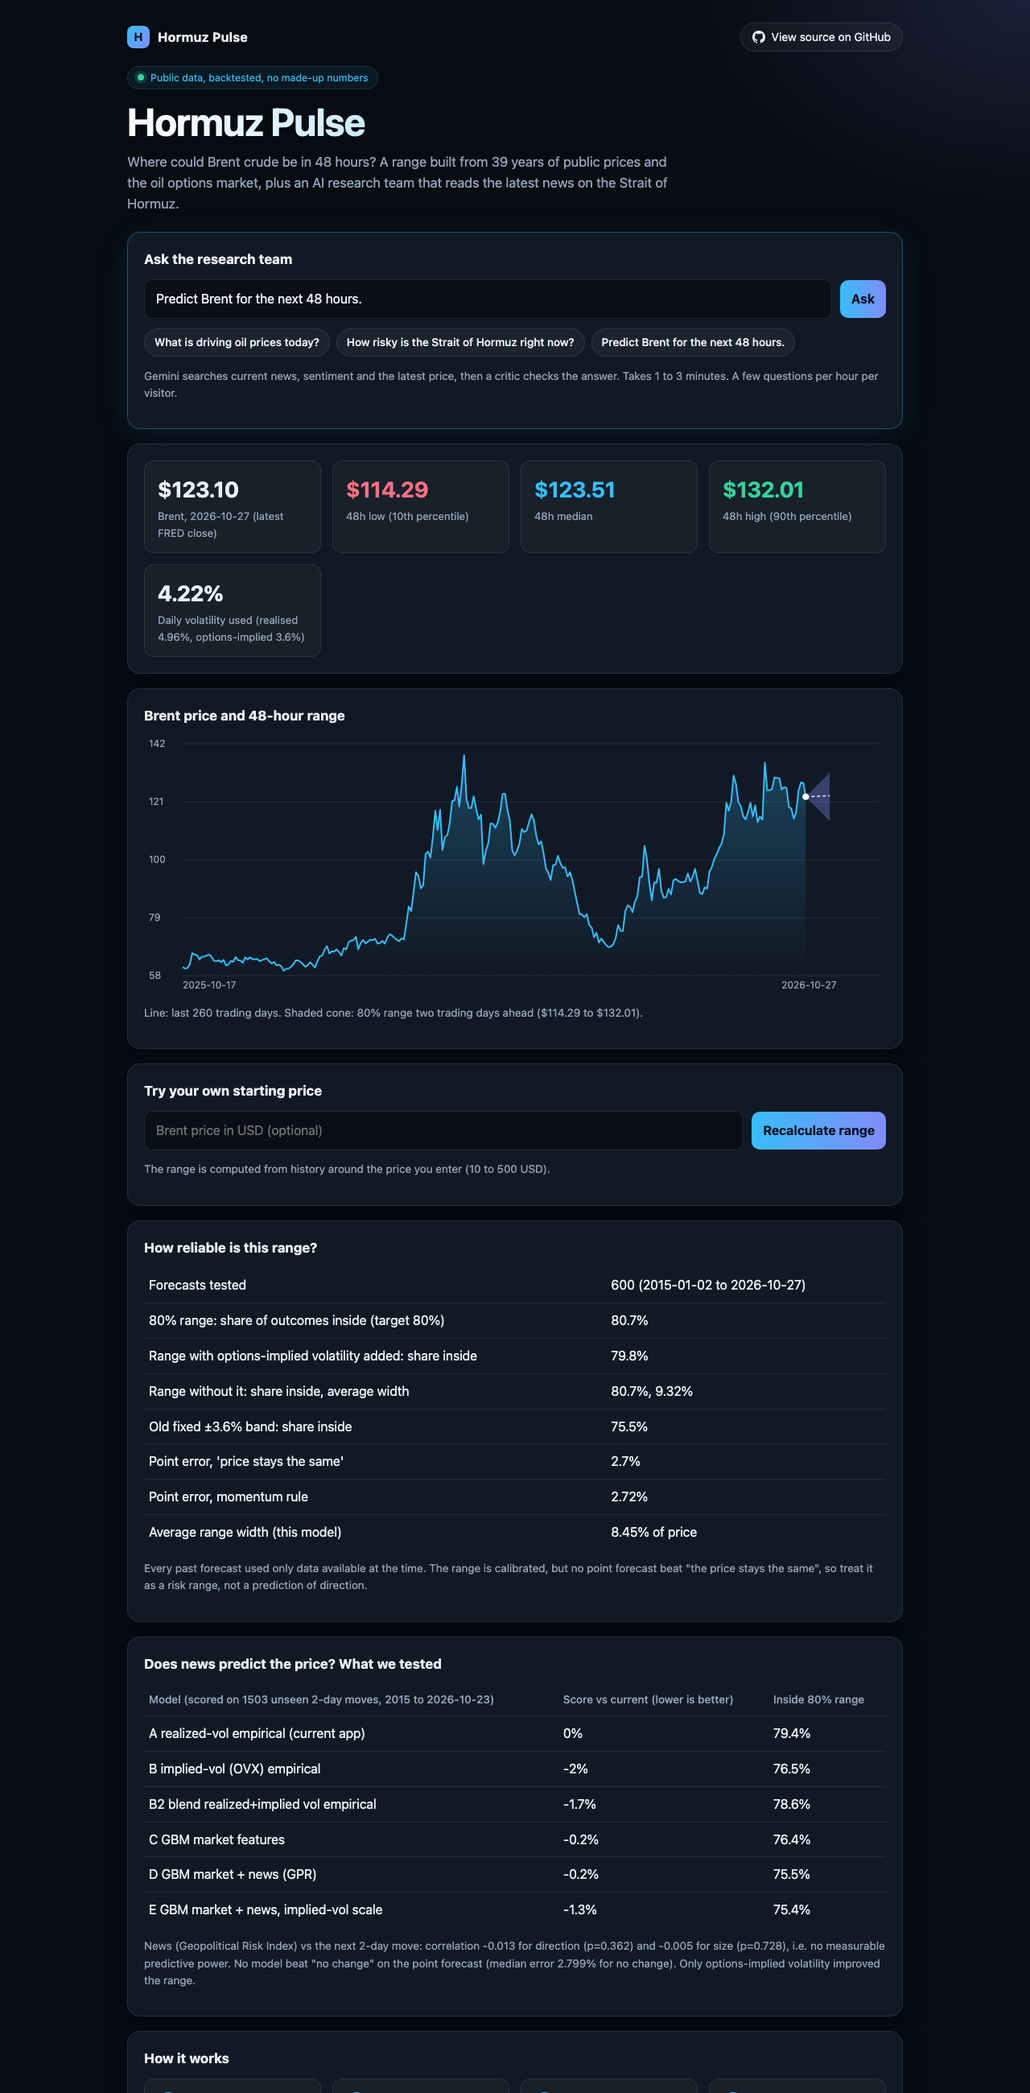
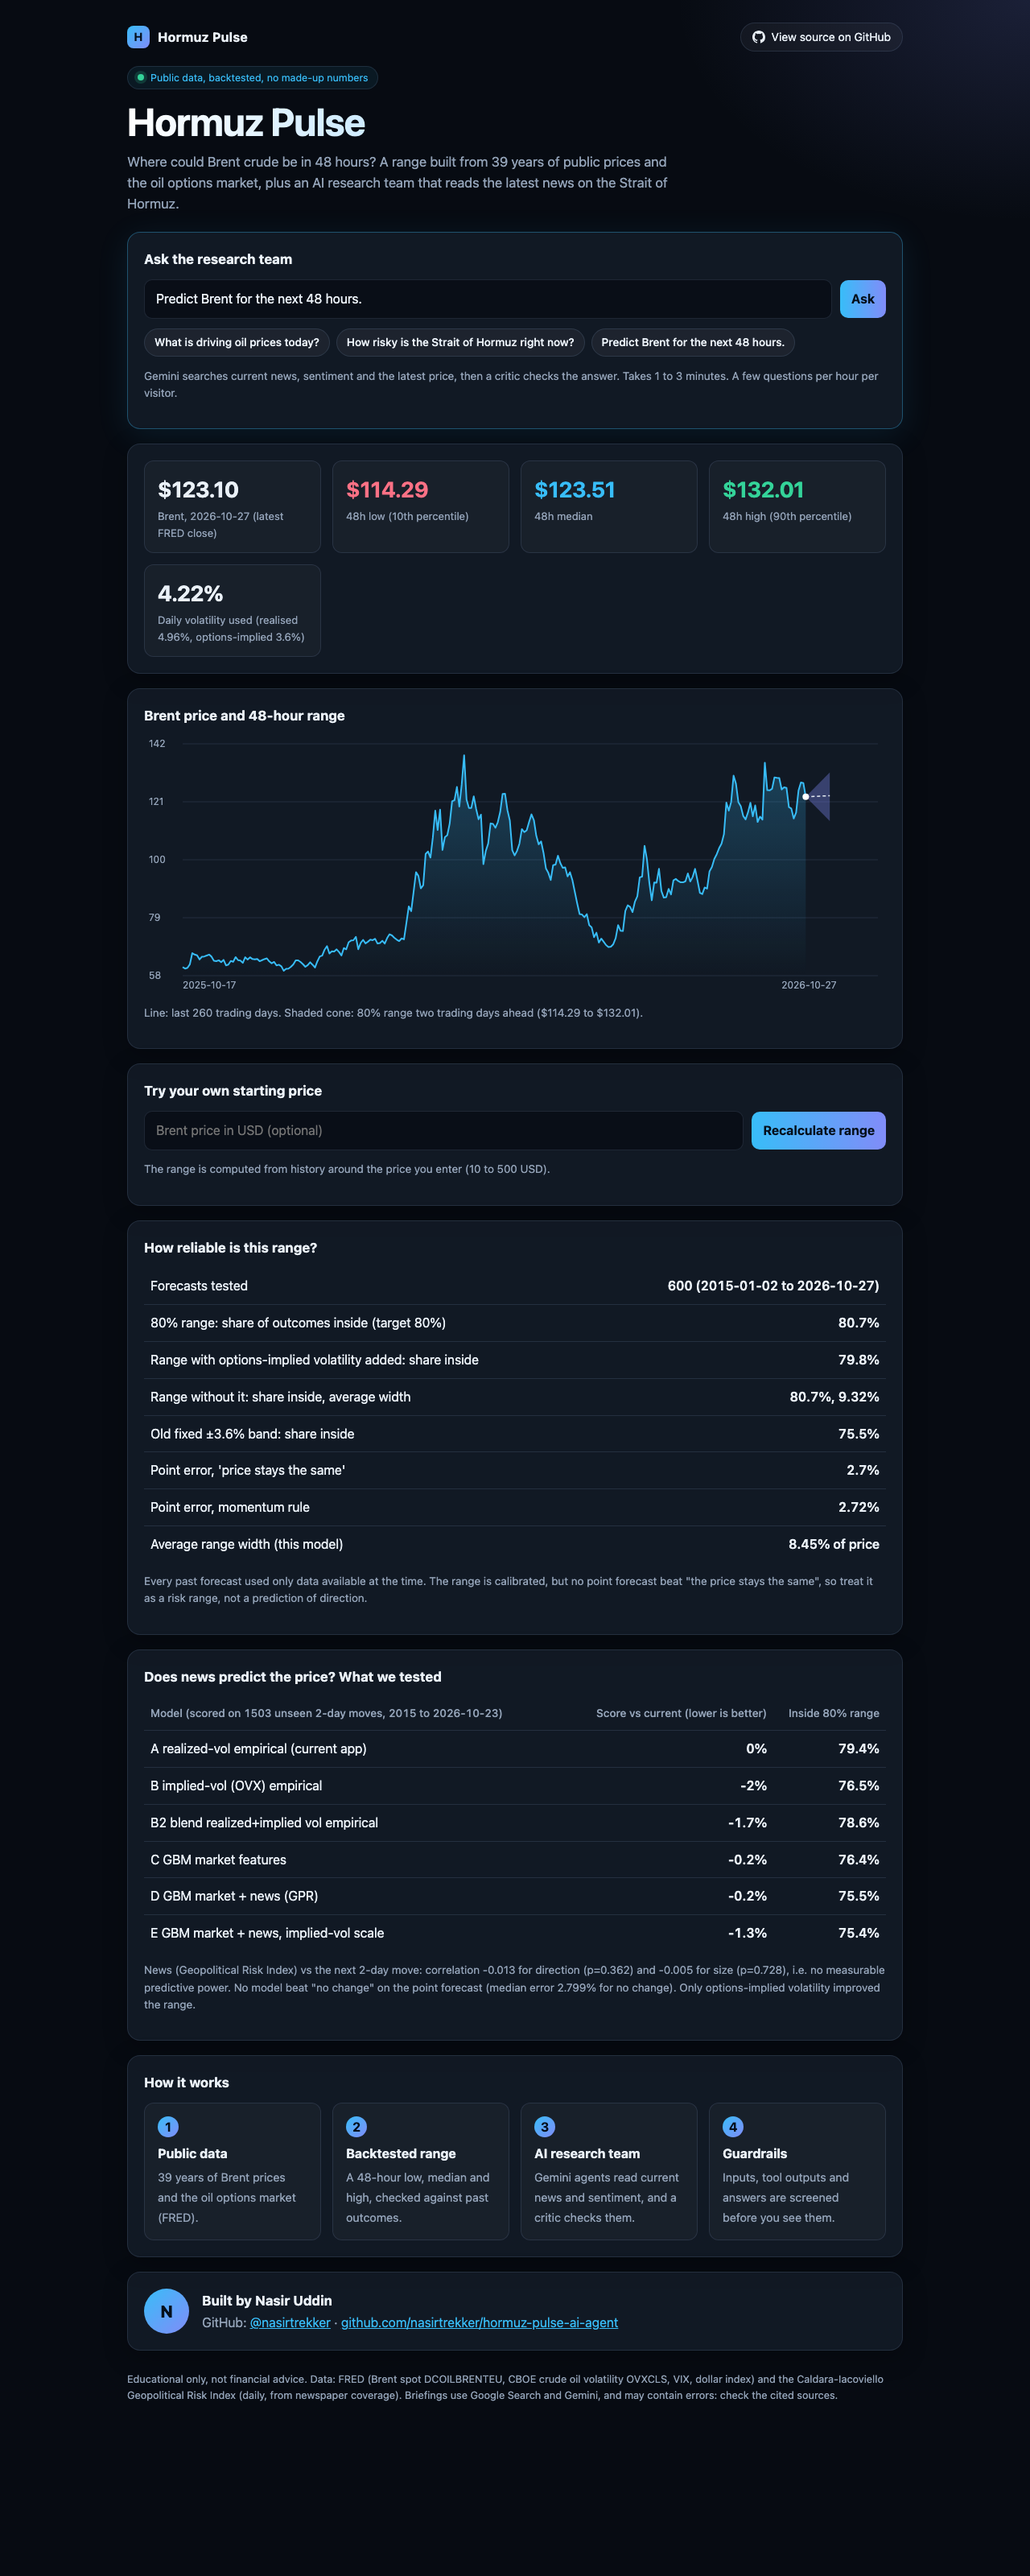
Fix dashboard table layout and make tables scroll on small screens

diff --git a/app/static/index.html b/app/static/index.html
@@ -32,7 +32,13 @@
   button:disabled { opacity:.55; cursor:progress; }
   .chips { display:flex; gap:8px; flex-wrap:wrap; margin:12px 0 0; }
   .chip { background:rgba(255,255,255,.05); color:var(--text); border:1px solid var(--line); font-weight:500; padding:6px 12px; border-radius:999px; font-size:.85rem; }
-  table { width:100%; border-collapse:collapse; } td,th { text-align:left; padding:9px 6px; border-bottom:1px solid var(--line); }
+  .scroll { overflow-x:auto; -webkit-overflow-scrolling:touch; }
+  table { width:100%; border-collapse:collapse; min-width:420px; font-variant-numeric:tabular-nums; }
+  td,th { text-align:left; padding:10px 8px; border-bottom:1px solid var(--line); vertical-align:top; }
+  td:first-child, th:first-child { width:58%; }
+  td:not(:first-child), th:not(:first-child) { text-align:right; white-space:nowrap; }
+  td:not(:first-child) { font-weight:600; }
+  tbody tr:hover, #bt tr:hover, #ev tr:hover { background:rgba(255,255,255,.03); }
   th { color:var(--mute); font-weight:500; font-size:.85rem; } tr:last-child td { border-bottom:0; }
   .answer { white-space:pre-wrap; word-wrap:break-word; margin:16px 0 0; padding:16px; border-radius:12px; background:rgba(255,255,255,.03); border:1px solid var(--line); display:none; }
   .answer.show { display:block; }
@@ -106,13 +112,13 @@
 
   <section class="card">
     <h2>How reliable is this range?</h2>
-    <table id="bt"><tr><td class="note">Running walk-forward backtest…</td></tr></table>
+    <div class="scroll"><table id="bt"><tr><td class="note">Running walk-forward backtest…</td></tr></table></div>
     <p class="note">Every past forecast used only data available at the time. The range is calibrated, but no point forecast beat "the price stays the same", so treat it as a risk range, not a prediction of direction.</p>
   </section>
 
   <section class="card">
     <h2>Does news predict the price? What we tested</h2>
-    <table id="ev"><tr><td class="note">Loading experiment results…</td></tr></table>
+    <div class="scroll"><table id="ev"><tr><td class="note">Loading experiment results…</td></tr></table></div>
     <p class="note" id="evnote"></p>
   </section>
 
